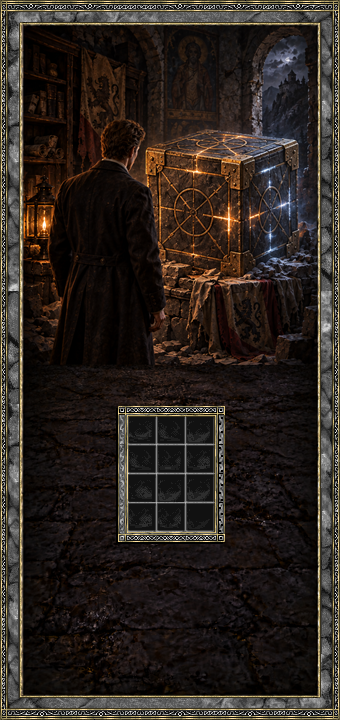
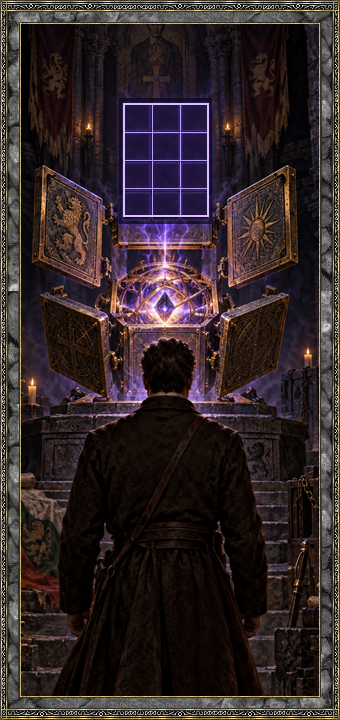
v1.12.168: the open tesseract, and a button made of light
The user's new painting for Levski's Cube page: a man facing the opened cube, the item grid
floating above it as a violet hologram and the transmute diamond glowing in the tesseract below.

MEASURED, NOT ESTIMATED. The hologram's rules stand at x 123/124, 152, 180, 207/208 and y 103/104,
132, 160, 188, 215/216 - three columns by four rows of 28px cells on a 28px pitch, origin
(124,104). That is the Roar's own cell and pitch, so not one line of the transmute logic moves:
CellRect, FitsAt, PlaceInGrid, the hit test and the footprint draw all carry over.

The diamond's vertices sit at x 143 and 190, y 288 and 322, so the button is that bounding box,
48 by 35 - wider than tall because the shape is, and a square over it would take in the
tesseract's ribs. Its TOP lands at exactly 216 + 72, which is the user's "72 pixels bellow the
cube grid" to the pixel. Two independent measurements agreeing is what says the grid reading is
right as well: the grid's bottom rule and the diamond's apex were found by separate scans and the
arithmetic between them was theirs.

TWO SWITCHES ON THE PAGE, not two special cases in the draw.

slotArt: the item grids' slot texture goes in every cell of every grid in the game because those
cells are painted wells. These are light ("dont apply grid texture to levskis hologram grid").
The page carries slotArt = false and the draw asks it, rather than the loop testing for this
[…]

diff --git a/Source/oracool/levski_roar.cpp b/Source/oracool/levski_roar.cpp
@@ -245,6 +245,26 @@ struct ListSkinGeometry {
 	 * A shared constant would have darkened seven rows of Ogden's painted moulding.
 	 */
 	Rectangle darkLayer = { { 0, 0 }, { 0, 0 } };
+	/**
+	 * Whether the item grids' slot art is laid in this page's cells (2026-09-22).
+	 *
+	 * True everywhere the cells are a painted WELL, which is every page that has ever had a grid -
+	 * and false on the open tesseract, whose cells are a violet hologram hanging in the air (user:
+	 * "dont apply grid texture to levskis hologram grid. leave it as it is"). A stone slot laid in
+	 * one would put masonry inside light.
+	 */
+	bool slotArt = true;
+	/**
+	 * Whether the TRANSMUTE button is part of the painting (2026-09-22).
+	 *
+	 * The tabbed pages wear Griswold's plate and glyph over their transmute rect, which is right
+	 * where the rect is a recess the art left empty for it. The open tesseract is not: its button is
+	 * the glowing diamond the painter put there (user: "as transmute button we will use the diamond
+	 * who is 72 pixels bellow the cube grid"), so laying a stone plate on it would cover the very
+	 * thing being pressed. A painted button answers with light instead of a plate: brighter under
+	 * the cursor, brighter still while held.
+	 */
+	bool paintedTransmute = false;
 };
 
 constexpr ListSkinGeometry CubeGeometry {
@@ -523,12 +543,36 @@ constexpr Rectangle CubePageTransmuteRect {
 	    CubeGridFrameBottom + 1 + CubeTransmuteClearance },
 	{ CubeTransmuteSize, CubeTransmuteSize }
 };
+/**
+ * THE OPEN TESSERACT (user, 2026-09-22: "replace levski's cube with this new asset [...] as transmute
+ * button we will use the diamond who is 72 pixels bellow the cube grid").
+ *
+ * A man facing the opened cube, with the grid floating above it as a VIOLET HOLOGRAM and the
+ * transmute diamond glowing in the tesseract below. MEASURED off the painting, not estimated:
+ *
+ *   the hologram's rules stand at x 123/124, 152, 180, 207/208 and y 103/104, 132, 160, 188,
+ *   215/216 - three columns by four rows of 28px cells on a 28px pitch, origin (124,104). That is
+ *   the Roar's own cell and the Roar's own pitch, so not one line of the transmute logic moves;
+ *
+ *   the diamond's vertices sit at x 143 and 190, y 288 and 322 - and its TOP lands at exactly
+ *   216 + 72, which is the user's "72 pixels bellow the cube grid" to the pixel. Two independent
+ *   measurements agreeing is what says the grid reading is right as well.
+ *
+ * The button is the diamond's bounding box, 48 by 35. It is wider than it is tall because the shape
+ * is, and a square over it would take in the tesseract's ribs on either side.
+ */
+constexpr Point CubeTesseractGridOrigin { 124, 104 };
+constexpr Rectangle CubeDiamondRect { { 143, 288 }, { 48, 35 } };
 constexpr ListSkinGeometry CubePageGeometry {
-	{ 340, 720 }, { 128, 416 }, CubePageTransmuteRect, { { 0, 0 }, { 0, 0 } },
+	{ 340, 720 }, CubeTesseractGridOrigin, CubeDiamondRect, { { 0, 0 }, { 0, 0 } },
 	{ { 0, 0 }, { 0, 0 } }, { { 316, 5 }, { 18, 18 } }, CubePageCanvasAsset, false,
 	{ { 0, 0 }, { 0, 0 } }, // no RECIPE BOOK plate: the tab beside the window is how the list is reached now
 	{ { 0, 0 }, { 0, 0 } }, // and no title - the painting is a portrait, as every canvas this day
-	true
+	true, ListLines, /*hasGrid=*/true, { { 0, 0 }, { 0, 0 } },
+	// NO SLOT ART (user: "dont apply grid texture to levskis hologram grid. leave it as it is").
+	// The cells are a hologram, not a well: a stone slot laid in one would put masonry inside light.
+	/*slotArt=*/false,
+	/*paintedTransmute=*/true
 };
 /** @brief Ogden's, the same page down to the pixel with his table painted behind it instead. */
 constexpr ListSkinGeometry OgdenCubePageGeometry {
@@ -2027,8 +2071,9 @@ void DrawLevskiRoar(const Surface &out)
 	// looked at it and asked for the cover. CellRect is the 28 the item sprite occupies, so the slot
 	// art and the item it holds now sit on exactly the same square.
 	//
-	// Outside the codeDrawn block above, so the painted cube gets it too.
-	if (PageHasGrid()) {
+	// Outside the codeDrawn block above, so a painted page gets it too - but ASKED OF THE PAGE, not
+	// assumed: the open tesseract's cells are a hologram and take no slot art at all.
+	if (PageHasGrid() && (listSkin == nullptr || listSkin->slotArt)) {
 		for (int cell = 0; cell < LevskiGridSlots; cell++)
 			DrawSlotBackground(out, CellRect(window, cell));
 	}
@@ -2140,6 +2185,21 @@ void DrawLevskiRoar(const Surface &out)
 		const char *buttonArt = pressed ? cube_skin::TransmuteButtonPressedAsset : cube_skin::TransmuteButtonAsset;
 		if (button.size.width == 0) {
 			// The Recipes tab has no Transmute at all - it is the list, nothing else.
+		} else if (listSkin != nullptr && listSkin->paintedTransmute) {
+			// THE DIAMOND IS THE BUTTON (2026-09-22). Nothing is drawn on it: the painting already
+			// has the thing being pressed, and Griswold's plate below would sit on top of it.
+			//
+			// It answers with LIGHT rather than with the mod's two-pixel sink, because a sink moves
+			// a painted object off the art it is part of - the tesseract's ribs would show a
+			// diamond-shaped hole beside it. Brighter under the cursor, brighter still while held.
+			//
+			// Checked BEFORE the tabbed-page branch below, which this page also satisfies: the
+			// tesseract IS a tabbed page, and the plate is what it must not get.
+			constexpr int CubeDiamondPressBrightenPercent = 140;
+			if (pressed)
+				BrightenRectRgb(out, button.position.x, button.position.y, button.size.width, button.size.height, CubeDiamondPressBrightenPercent);
+			else if (hovered)
+				BrightenRectRgb(out, button.position.x, button.position.y, button.size.width, button.size.height, CubeHoverBrightenPercent);
 		} else if (CubeTabbedPages()) {
 			// GRISWOLD'S OWN PLATE (user, 2026-09-21: "Use Griswold Refresh button as Transmute
 			// button here"), frame and glyph, the same two files his shop draws. It sinks on the

diff --git a/.ProjectDocumentation/02-Development-Reports/2026-09-22-open-tesseract-cube-page-v1.12.168.md b/.ProjectDocumentation/02-Development-Reports/2026-09-22-open-tesseract-cube-page-v1.12.168.md
@@ -1,0 +1,75 @@
+# The open tesseract — v1.12.168
+
+2026-09-22
+
+> replace levski's cube with this new asset - "Levski Cube - open tesseract hologram grid
+> 340x720.png"
+> dont apply grid texture to levskis hologram grid. leave it as it is. as transmute button we will
+> use the diamond who is 72 pixels bellow the cube grid. dont use this asset for the recipe tab.
+
+A man facing the opened cube, the item grid floating above it as a violet hologram and the
+transmute diamond glowing in the tesseract below.
+
+## Measured, not estimated
+
+**The hologram grid.** Its rules stand at x 123/124, 152, 180, 207/208 and y 103/104, 132, 160,
+188, 215/216 — three columns by four rows of 28px cells on a 28px pitch, origin **(124, 104)**.
+
+That is the Roar's own cell and the Roar's own pitch, so not one line of the transmute logic moves:
+`CellRect`, `FitsAt`, `PlaceInGrid`, the hit test and the footprint drawing all carry over.
+
+**The diamond.** Its vertices sit at x 143 and 190, y 288 and 322, so the button is the bounding box
+**{ {143, 288}, {48, 35} }** — wider than it is tall because the shape is, and a square over it
+would take in the tesseract's ribs on either side.
+
+Its **top lands at exactly 216 + 72**, which is the user's "72 pixels bellow the cube grid" to the
+pixel. Two independent measurements agreeing is what says the grid reading is right as well: the
+grid's bottom rule and the diamond's apex were found by separate scans and the arithmetic between
+them was the user's.
+
+## Two switches on the page, not two special cases in the draw
+
+**`slotArt`.** The item grids' slot texture goes in every cell of every grid in the game, because
+those cells are painted wells. These are light. The page now carries `slotArt = false` and the draw
+asks it, rather than the loop testing for this particular canvas — which is the shape that has
+broken repeatedly in this codebase whenever a third thing appeared.
+
+**`paintedTransmute`.** The tabbed pages wear Griswold's plate and glyph over their transmute rect,
+which is right where the rect is a recess the art left empty for it. Here the button IS the painted
+diamond, so a plate would cover the very thing being pressed.
+
+It answers with **light** rather than with the mod's standing two-pixel sink: a sink moves a painted
+object off the art it is part of, and the tesseract's ribs would show a diamond-shaped hole beside
+it. 115% under the cursor, 140% while held.
+
+That branch is checked **before** the tabbed-page branch, which this page also satisfies — the
+tesseract is a tabbed page, and the plate is exactly what it must not get.
+
+## What did not change
+
+The **Recipes tab** keeps `ui\cube_recipes_canvas.png` and every number it had ("dont use this asset
+for the recipe tab").
+
+**Ogden's Cube page** keeps `CubePageTransmuteRect` — Griswold's 34px plate under his painted well.
+The two pages shared that rect until today; Levski's now has its own, and Ogden's is untouched.
+
+## Files
+
+- `Packaging/resources/oracool_assets/ui/cube_page_canvas.png` (replaced)
+- `Source/oracool/levski_roar.cpp` — the geometry, the two new page flags, the painted-button branch
+
+Built clean, 832/832. `oracool.mpq` repacked.
+
+## What to look at in play
+
+1. The Cube tab: items should land in the hologram's cells, with no stone slot behind them.
+2. A 2x3 item in it — the footprint should cover six hologram cells squarely.
+3. The diamond: brighter under the cursor, brighter still while held, and it transmutes.
+4. The Recipes tab: unchanged.
+5. Ogden's Cube tab: still his well and still Griswold's plate under it.
+
+## Known
+
+The hover brighten uses the diamond's **bounding box**, so the four corners outside the rhombus —
+tesseract ribs and glow — brighten with it. Diffuse enough there that it should read as the gem
+lighting up, but if it reads as a box, that is why.
